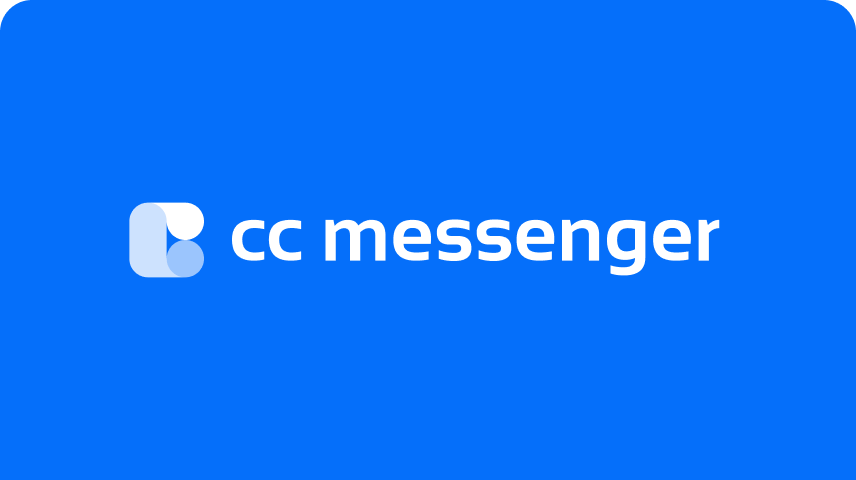
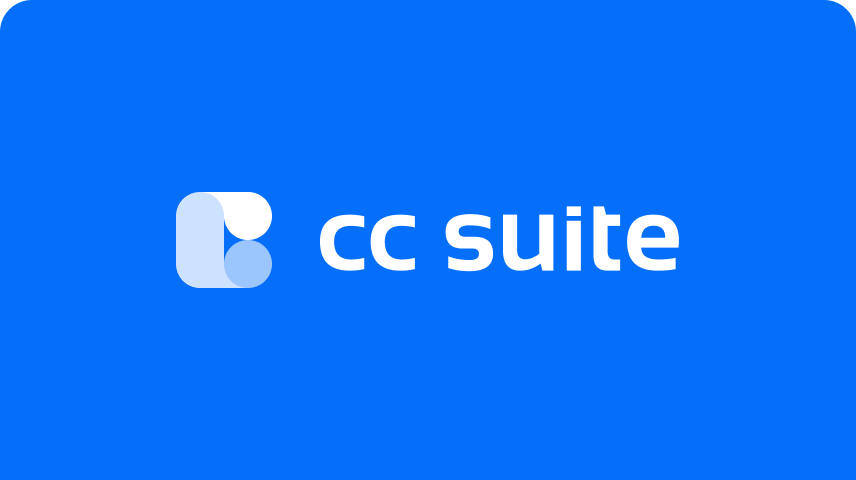
样式、文案调整

Changed region(s): [[0.1519, 0.375, 0.8505, 0.625]]

diff --git a/index.html b/index.html
@@ -59,12 +59,14 @@
                         </button>
                         <div id="myDropdown" class="dropdown-content">
                             <div class="header-left-div">
+                                <a href="index.html">
                                 <img class="header-img1-div" src="images/header-img1.png">
-                                <a href="index.html"><img class="header-img1-bottom-div" src="images/header-img1-bottom.png"></a>
+                                <img class="header-img1-bottom-div" src="images/header-img1-bottom.png"></a>
                             </div>
                             <div class="header-right-div1">
+                                <a href="https://ccapp.io/" target="_blank">
                                 <img class="header-img2-div" src="images/header-img2.png">
-                                <a href="https://ccapp.io/" target="_blank"><img class="header-img2-bottom-div" src="images/header-img2-bottom.png"></a>
+                                <img class="header-img2-bottom-div" src="images/header-img2-bottom.png"></a>
                             </div>
                         </div>
                     </div>
@@ -187,7 +189,7 @@
                     <span class="down_content_img_span">Mac</span>
                 </div>
                 <div class="down_content_info">
-                    <button class="btn btn-default m1-chip" type="submit"><img src="./images/ic_round-download.svg"> M1 Chip</button>
+                    <button class="btn btn-default m1-chip" type="submit"><img src="./images/ic_round-download.svg"> Apple Chip</button>
                     <button class="btn btn-default intel-chip" type="submit"><img src="./images/ic_round-download.svg"> Intel Chip</button>
                 </div>
             </div>
@@ -210,12 +212,12 @@
         <div style="margin-left: 15px;margin-top: 24px">
             <p class="footer-font"><a href="https://github.com/chative" target="_blank" style="color: #ffffff;">Docs</a></p>
             <p class="footer-font"><a href="aboutus.html" style="color: #ffffff;">About Us</a></p>
-            <p class="footer-font"><a href="https://ccapp.io/" target="_blank" style="color: #ffffff;">For Business(cc messenger)</a></p>
+            <p class="footer-font"><a href="https://ccapp.io/" target="_blank" style="color: #ffffff;">For Business(cc suite)</a></p>
             <p class="footer-font" style="float: right;margin-right: 15px">Need Help? Feel free to <a href="contactus.html"  style="color: #ffffff;font-weight: 500">Contact Us</a></p>
         </div>
         <div class="footer-line"></div>
         <div class="col-lg-6 footer_p">
-            <p>Chative © 2022-2023 , <a href="legal.html" style="color: #ffffff;">Terms & Privacy Policy</a></p>
+            <p>Chative © 2021-2024 , <a href="legal.html" style="color: #ffffff;">Terms & Privacy Policy</a></p>
         </div>
         <div class="col-lg-6" style="text-align: center;">
 <!--            <a href="https://t.me/+USQkdc5C-QRmOTM1" target="_blank"><img class="footer_img_1" src="/images/index_m_bottom_icon.png"/></a>-->

diff --git a/aboutus_m.html b/aboutus_m.html
@@ -60,7 +60,7 @@
                             <a href="https://ccapp.io/" target="_blank">
                                 <div class="product-menu-div2">
                                     <div style="display: inline-block">
-                                        <div class="product-menu-div1-font1">cc messenger</div>
+                                        <div class="product-menu-div1-font1">cc suite</div>
                                         <div class="product-menu-div1-font2">For business</div>
                                     </div>
 
@@ -110,12 +110,12 @@
         <div class="col-lg-12" style="padding-left: 0px">
             <a href="https://github.com/chative" target="_blank"><p class="content_bottom">Docs</p></a>
             <a href="aboutus_m.html"><p class="content_bottom">About Us</p></a>
-            <a href="https://ccapp.io/" target="_blank"><p class="content_bottom">For Business(cc messenger)</p></a>
+            <a href="https://ccapp.io/" target="_blank"><p class="content_bottom">For Business(cc suite)</p></a>
             <p class="content_bottom" style="font-weight: 400">Need Help? Feel free to<a href="contactus_m.html" class="content_bottom"> Contacts Us</a></p>
         </div>
         <div class="content_bottom_line"></div>
         <div class="col-lg-12 footer_p">
-            <p>Chative © 2022-2023 , <a href="legal.html" style="color: #ffffff;">Terms & Privacy Policy</a></p>
+            <p>Chative © 2021-2024 , <a href="legal.html" style="color: #ffffff;">Terms & Privacy Policy</a></p>
         </div>
         <div class="col-lg-12" style="padding-left: 0px;margin-top: 24px">
             <a href="https://github.com/chative" target="_blank"><img class="footer_img_3" src="/images/footer3.png"/></a>

diff --git a/contactus_m.html b/contactus_m.html
@@ -59,7 +59,7 @@
                             <a href="https://ccapp.io/" target="_blank">
                                 <div class="product-menu-div2">
                                     <div style="display: inline-block">
-                                        <div class="product-menu-div1-font1">cc messenger</div>
+                                        <div class="product-menu-div1-font1">cc suite</div>
                                         <div class="product-menu-div1-font2">For business</div>
                                     </div>
 
@@ -96,12 +96,12 @@
         <div class="col-lg-12" style="padding-left: 0px">
             <a href="https://github.com/chative" target="_blank"><p class="content_bottom">Docs</p></a>
             <a href="aboutus_m.html"><p class="content_bottom">About Us</p></a>
-            <a href="https://ccapp.io/" target="_blank"><p class="content_bottom">For Business(cc messenger)</p></a>
+            <a href="https://ccapp.io/" target="_blank"><p class="content_bottom">For Business(cc suite)</p></a>
             <p class="content_bottom" style="font-weight: 400">Need Help? Feel free to<a href="contactus_m.html" class="content_bottom"> Contacts Us</a></p>
         </div>
         <div class="content_bottom_line"></div>
         <div class="col-lg-12 footer_p">
-            <p>Chative © 2022-2023 , <a href="legal.html" style="color: #ffffff;">Terms & Privacy Policy</a></p>
+            <p>Chative © 2021-2024 , <a href="legal.html" style="color: #ffffff;">Terms & Privacy Policy</a></p>
         </div>
         <div class="col-lg-12" style="padding-left: 0px;margin-top: 24px">
             <a href="https://github.com/chative" target="_blank"><img class="footer_img_3" src="/images/footer3.png"/></a>

diff --git a/index_m.html b/index_m.html
@@ -60,7 +60,7 @@
                             <a href="https://ccapp.io/" target="_blank">
                             <div class="product-menu-div2">
                                 <div style="display: inline-block">
-                                    <div class="product-menu-div1-font1">cc messenger</div>
+                                    <div class="product-menu-div1-font1">cc suite</div>
                                     <div class="product-menu-div1-font2">For business</div>
                                 </div>
 
@@ -141,12 +141,12 @@
         <div class="col-lg-12" style="padding-left: 0px">
             <a href="https://github.com/chative" target="_blank"><p class="content_bottom">Docs</p></a>
             <a href="aboutus_m.html"><p class="content_bottom">About Us</p></a>
-            <a href="https://ccapp.io/" target="_blank"><p class="content_bottom">For Business(cc messenger)</p></a>
+            <a href="https://ccapp.io/" target="_blank"><p class="content_bottom">For Business(cc suite)</p></a>
             <p class="content_bottom" style="font-weight: 400">Need Help? Feel free to<a href="contactus_m.html" class="content_bottom"> Contacts Us</a></p>
         </div>
         <div class="content_bottom_line"></div>
         <div class="col-lg-12 footer_p">
-            <p>Chative © 2022-2023 , <a href="legal.html" style="color: #ffffff;">Terms & Privacy Policy</a></p>
+            <p>Chative © 2021-2024 , <a href="legal.html" style="color: #ffffff;">Terms & Privacy Policy</a></p>
         </div>
         <div class="col-lg-12" style="padding-left: 0px;margin-top: 24px">
             <a href="https://github.com/chative" target="_blank"><img class="footer_img_3" src="/images/footer3.png"/></a>

diff --git a/a/hashes.html b/a/hashes.html
@@ -133,12 +133,12 @@ document.getElementById('content').innerHTML = marked.parse(a);
         <div style="margin-left: 15px;margin-top: 24px">
             <p class="footer-font"><a href="https://github.com/chative" target="_blank" style="color: #ffffff;">Docs</a></p>
             <p class="footer-font"><a href="../aboutus.html" target="_blank" style="color: #ffffff;">About Us</a></p>
-            <p class="footer-font"><a href="https://ccapp.io/" target="_blank" style="color: #ffffff;">For Business(cc messenger)</a></p>
+            <p class="footer-font"><a href="https://ccapp.io/" target="_blank" style="color: #ffffff;">For Business(cc suite)</a></p>
             <p class="footer-font" style="float: right;margin-right: 15px">Need Help? Feel free to <a href="../contactus.html" target="_blank" style="color: #ffffff;font-weight: 500">Contact Us</a></p>
         </div>
         <div class="footer-line"></div>
         <div class="col-lg-6 footer_p">
-            <p>Chative © 2022-2023 , <a href="../legal.html" style="color: #ffffff;">Terms & Privacy Policy</a></p>
+            <p>Chative © 2021-2024 , <a href="../legal.html" style="color: #ffffff;">Terms & Privacy Policy</a></p>
         </div>
         <div class="col-lg-6" style="text-align: center;">
             <a href="https://t.me/+USQkdc5C-QRmOTM1" target="_blank"><img class="footer_img_1" src="../images/index_m_bottom_icon.png"/></a>

diff --git a/a/linux.html b/a/linux.html
@@ -102,12 +102,12 @@
     <div style="margin-left: 15px;margin-top: 24px">
       <p class="footer-font"><a href="https://github.com/chative" target="_blank" style="color: #ffffff;">Docs</a></p>
       <p class="footer-font"><a href="../aboutus.html" target="_blank" style="color: #ffffff;">About Us</a></p>
-      <p class="footer-font"><a href="https://ccapp.io/" target="_blank" style="color: #ffffff;">For Business(cc messenger)</a></p>
+      <p class="footer-font"><a href="https://ccapp.io/" target="_blank" style="color: #ffffff;">For Business(cc suite)</a></p>
       <p class="footer-font" style="float: right;margin-right: 15px">Need Help? Feel free to <a href="../contactus.html" target="_blank" style="color: #ffffff;font-weight: 500">Contact Us</a></p>
     </div>
     <div class="footer-line"></div>
     <div class="col-lg-6 footer_p">
-      <p>Chative © 2022-2023 , <a href="../legal.html" style="color: #ffffff;">Terms & Privacy Policy</a></p>
+      <p>Chative © 2021-2024 , <a href="../legal.html" style="color: #ffffff;">Terms & Privacy Policy</a></p>
     </div>
     <div class="col-lg-6" style="text-align: center;">
       <a href="https://t.me/+USQkdc5C-QRmOTM1" target="_blank"><img class="footer_img_1" src="../images/index_m_bottom_icon.png"/></a>

diff --git a/aboutus.html b/aboutus.html
@@ -121,12 +121,12 @@
         <div style="margin-left: 15px;margin-top: 24px">
             <p class="footer-font"><a href="https://github.com/chative" target="_blank" style="color: #ffffff;">Docs</a></p>
             <p class="footer-font"><a href="#" style="color: #ffffff;">About Us</a></p>
-            <p class="footer-font"><a href="https://ccapp.io/" target="_blank" style="color: #ffffff;">For Business(cc messenger)</a></p>
+            <p class="footer-font"><a href="https://ccapp.io/" target="_blank" style="color: #ffffff;">For Business(cc suite)</a></p>
             <p class="footer-font" style="float: right;margin-right: 15px">Need Help? Feel free to <a href="contactus.html" style="color: #ffffff;font-weight: 500">Contact Us</a></p>
         </div>
         <div class="footer-line"></div>
         <div class="col-lg-6 footer_p">
-            <p>Chative © 2022-2023 , <a href="legal.html" style="color: #ffffff;">Terms & Privacy Policy</a></p>
+            <p>Chative © 2021-2024 , <a href="legal.html" style="color: #ffffff;">Terms & Privacy Policy</a></p>
         </div>
         <div class="col-lg-6" style="text-align: center;">
             <!--<a href="#" target="_blank"><img class="footer_img_1" src="images/footer2.png"/></a>-->

diff --git a/contactus.html b/contactus.html
@@ -96,12 +96,12 @@
         <div style="margin-left: 15px;margin-top: 24px">
             <p class="footer-font"><a href="https://github.com/chative" target="_blank" style="color: #ffffff;">Docs</a></p>
             <p class="footer-font"><a href="aboutus.html" style="color: #ffffff;">About Us</a></p>
-            <p class="footer-font"><a href="https://ccapp.io/" target="_blank" style="color: #ffffff;">For Business(cc messenger)</a></p>
+            <p class="footer-font"><a href="https://ccapp.io/" target="_blank" style="color: #ffffff;">For Business(cc suite)</a></p>
             <p class="footer-font" style="float: right;margin-right: 15px">Need Help? Feel free to <a href="#" style="color: #ffffff;font-weight: 500">Contact Us</a></p>
         </div>
         <div class="footer-line"></div>
         <div class="col-lg-6 footer_p">
-            <p>Chative © 2022-2023 , <a href="legal.html" style="color: #ffffff;">Terms & Privacy Policy</a></p>
+            <p>Chative © 2021-2024 , <a href="legal.html" style="color: #ffffff;">Terms & Privacy Policy</a></p>
         </div>
         <div class="col-lg-6" style="text-align: center;">
             <!--<a href="#" target="_blank"><img class="footer_img_1" src="images/footer2.png"/></a>-->

diff --git a/index_b.html b/index_b.html
@@ -181,7 +181,7 @@
     <div class="container">
         <div class="col-lg-6 footer_p">
             <p>For more help, email help#chative.com</p>
-            <p>Chative © 2022-2023 , <a href="legal.html" style="color: #ffffff;">Terms & Privacy Policy</a></p>
+            <p>Chative © 2021-2024 , <a href="legal.html" style="color: #ffffff;">Terms & Privacy Policy</a></p>
         </div>
         <div class="col-lg-6" style="text-align: center;">
             <!--<a href="#" target="_blank"><img class="footer_img_1" src="images/footer2.png"/></a>-->

diff --git a/details.html b/details.html
@@ -97,7 +97,7 @@
     <div class="container">
         <div class="col-lg-6 footer_p">
             <p>For more help, email help#chative.com</p>
-            <p>Chative © 2022-2023 , <a href="legal.html" style="color: #ffffff;">Terms & Privacy Policy</a></p>
+            <p>Chative © 2021-2024 , <a href="legal.html" style="color: #ffffff;">Terms & Privacy Policy</a></p>
         </div>
         <div class="col-lg-6" style="text-align: center;">
             <!--<a href="#" target="_blank"><img class="footer_img_1" src="images/footer2.png"/></a>-->

diff --git a/details_m.html b/details_m.html
@@ -97,7 +97,7 @@
         </div>
         <div class="col-lg-12 footer_p">
             <p>For more help, email help#chative.com</p>
-            <p>Chative © 2022-2023 , <a href="legal.html" style="color: #ffffff;">Terms & Privacy Policy</a></p>
+            <p>Chative © 2021-2024 , <a href="legal.html" style="color: #ffffff;">Terms & Privacy Policy</a></p>
         </div>
     </div>
 </footer>

diff --git a/list_m.html b/list_m.html
@@ -96,7 +96,7 @@
         </div>
         <div class="col-lg-12 footer_p">
             <p>For more help, email help#chative.com</p>
-            <p>Chative © 2022-2023 , <a href="legal.html" style="color: #ffffff;">Terms & Privacy Policy</a></p>
+            <p>Chative © 2021-2024 , <a href="legal.html" style="color: #ffffff;">Terms & Privacy Policy</a></p>
         </div>
     </div>
 </footer>
